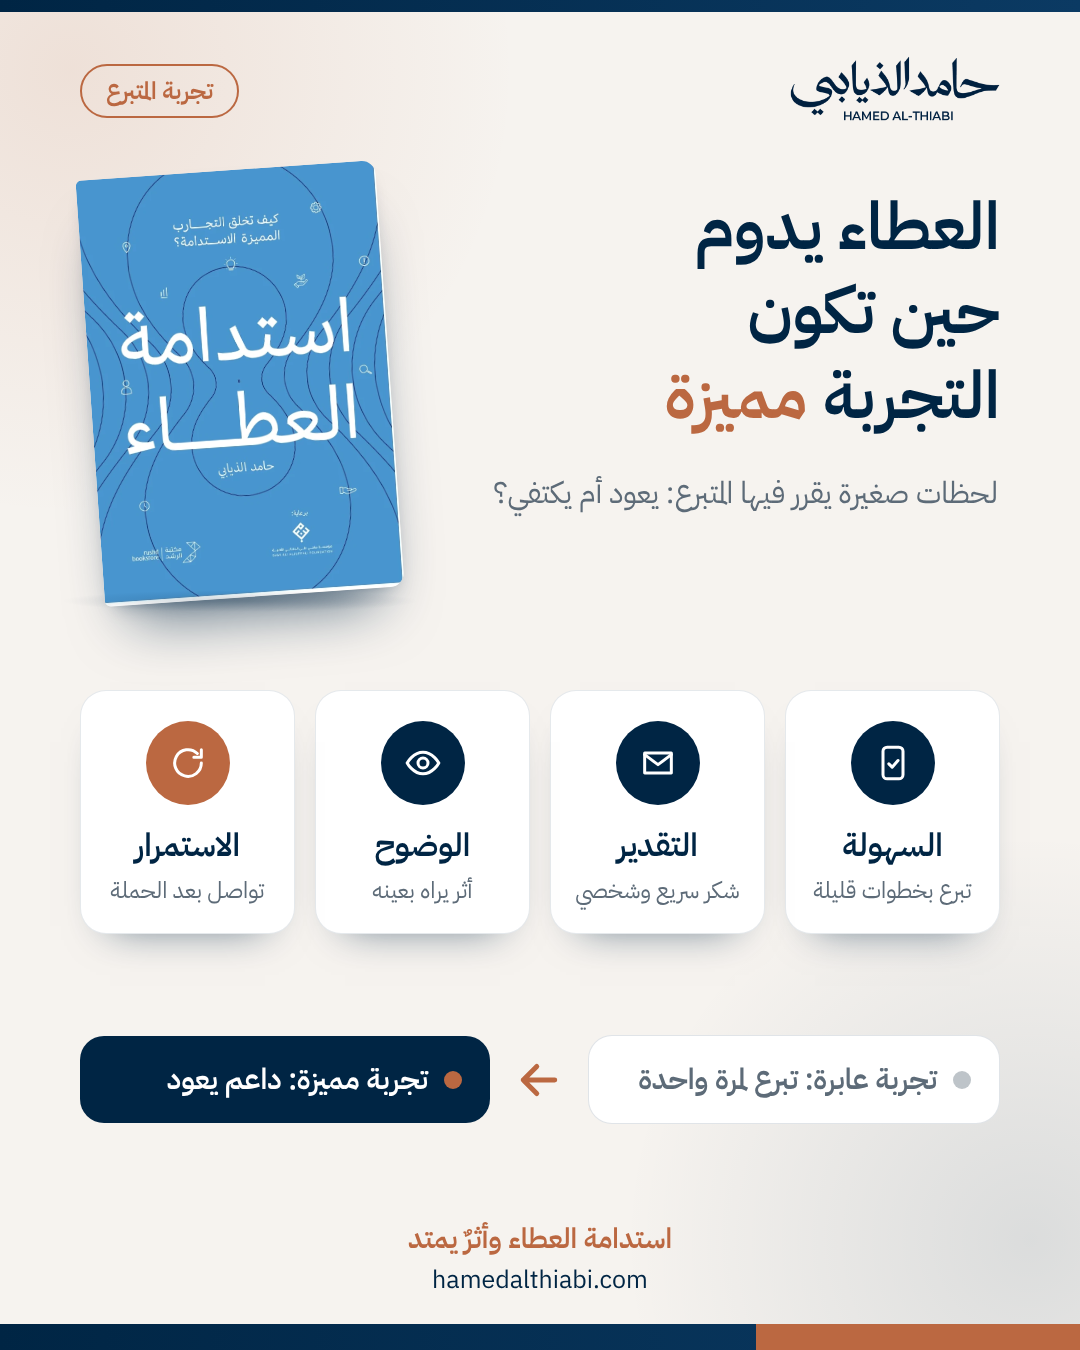
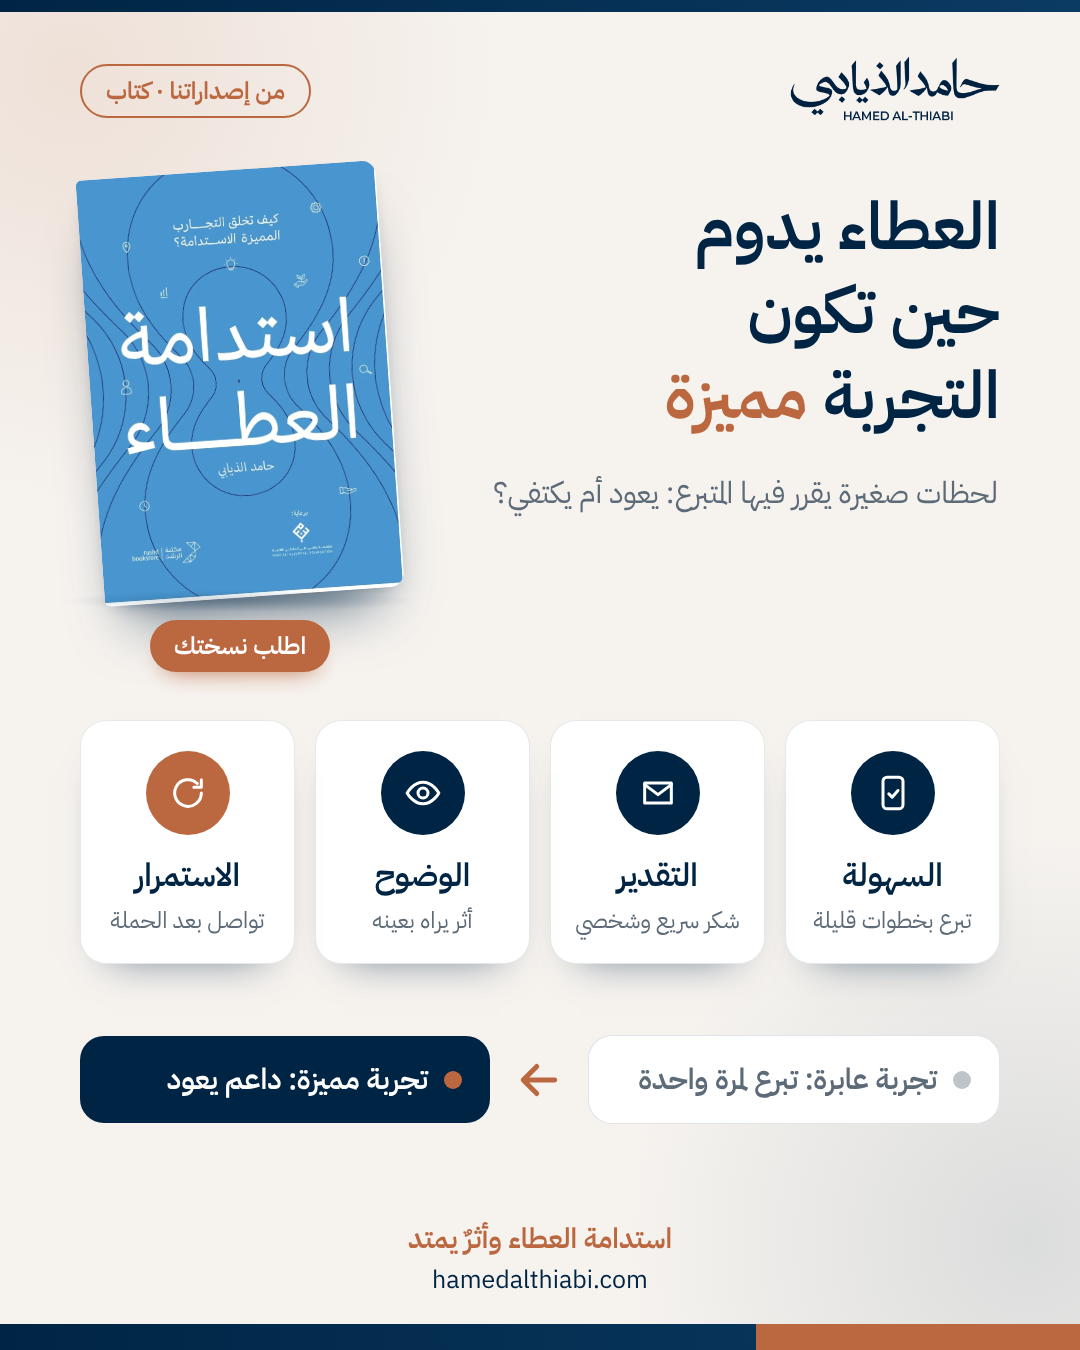
منشورات 2026-11-26: إعادة كتابة بطلب تغريد (تسويق الكتاب، والجلسات الاستشارية في القناة)
Claude-Session: https://claude.ai/code/session_01WaAQ5Sye2uUo2n6FHezNNG

diff --git a/agent/designs/2026-11-26-consultation.html b/agent/designs/2026-11-26-consultation.html
@@ -1,0 +1,61 @@
+<!doctype html><html dir="rtl" lang="ar"><head><meta charset="utf-8"><style>
+@font-face{font-family:Ar;src:url(../brand/plex-600.ttf);font-weight:600}
+@font-face{font-family:Ar;src:url(../brand/plex-400.ttf);font-weight:400}
+@font-face{font-family:La;src:url(../brand/plex-latin-400.ttf)}
+:root{--n:#002544;--n2:#0b3a63;--c:#BB6841;--c2:#d0835d;--ink:#1c2a38;--mut:#5d6b78;--bg:#f6f3ef}
+*{margin:0;box-sizing:border-box}html,body{width:1080px;height:1350px;overflow:hidden}
+body{font-family:Ar,La;background:var(--bg);position:relative;color:var(--ink)}
+.b1{position:absolute;width:900px;height:900px;right:-420px;top:-420px;border-radius:50%;background:radial-gradient(circle,#BB684122,#BB684100 70%)}
+.b2{position:absolute;width:800px;height:800px;left:-360px;bottom:-320px;border-radius:50%;background:radial-gradient(circle,#0025441c,#00254400 70%)}
+.top{position:absolute;top:0;left:0;right:0;height:12px;background:linear-gradient(90deg,var(--n),var(--n2))}
+.bot{position:absolute;bottom:0;left:0;right:0;height:26px;background:linear-gradient(90deg,var(--n),var(--n2))}
+.bot i{position:absolute;right:0;top:0;bottom:0;width:30%;background:var(--c)}
+.logo{position:absolute;top:56px;right:80px;width:210px}
+.tag{position:absolute;top:64px;left:80px;font-size:24px;font-weight:600;color:var(--c);border:2px solid var(--c);border-radius:999px;padding:7px 24px}
+.title{position:absolute;top:180px;right:80px;left:80px;font-weight:600;font-size:64px;color:var(--n);line-height:1.25}
+.title em{font-style:normal;color:var(--c)}
+.sub{position:absolute;top:350px;right:82px;left:80px;font-size:29px;color:var(--mut);line-height:1.5}
+svg.road{position:absolute;left:0;top:430px}
+.st{position:absolute;width:190px;text-align:center}
+.st .dot{width:92px;height:92px;margin:0 auto;border-radius:50%;background:#fff;border:3px solid var(--n);display:flex;align-items:center;justify-content:center;box-shadow:0 16px 30px -18px #002544cc;position:relative}
+.st .dot svg{width:42px;height:42px}
+.st .dot span{position:absolute;top:-10px;right:-8px;width:36px;height:36px;border-radius:50%;background:var(--n);color:#fff;font-size:20px;font-weight:600;display:flex;align-items:center;justify-content:center}
+.st b{display:block;margin-top:12px;font-size:31px;font-weight:600;color:var(--n)}
+.st.after .dot{background:var(--n);border-color:var(--n)}
+.st.after .dot span{background:var(--c)}
+.st.goal .dot{background:var(--c);border-color:var(--c);width:110px;height:110px}
+.st.goal b{color:var(--c);position:absolute;top:30px;right:200px;margin:0;font-size:40px;white-space:nowrap}
+.split{position:absolute;top:1110px;right:80px;left:80px;display:flex;gap:22px}
+.split div{flex:1;border-radius:24px;padding:20px 26px;font-size:27px;font-weight:600;line-height:1.4;display:flex;align-items:center;gap:16px}
+.split .a{background:#fff;border:1.5px solid #0025441f;color:var(--n)}
+.split .b{background:var(--n);color:#fff}
+.split i{flex:none;width:18px;height:18px;border-radius:50%;background:var(--c)}
+.slog{position:absolute;top:1228px;width:100%;text-align:center;font-size:28px;font-weight:600;color:var(--c)}
+.url{position:absolute;bottom:52px;width:100%;text-align:center;font-family:La,Ar;font-size:25px;color:var(--n);direction:ltr}
+
+.steps{position:absolute;top:480px;right:80px;left:80px;display:grid;grid-template-columns:1fr 1fr;gap:24px}
+.s{background:#fff;border:1.5px solid #0025441a;border-radius:26px;padding:30px 30px;display:flex;gap:22px;align-items:center;box-shadow:0 22px 40px -30px #002544aa}
+.s .n{flex:none;width:78px;height:78px;border-radius:50%;background:var(--n);color:#fff;font-size:34px;font-weight:600;display:flex;align-items:center;justify-content:center}
+.s b{display:block;font-size:34px;color:var(--n);font-weight:600}
+.s small{display:block;font-size:23px;color:var(--mut);margin-top:4px;line-height:1.4}
+.start{position:absolute;top:930px;right:80px;left:80px;background:var(--n);color:#fff;border-radius:28px;padding:30px 36px;display:flex;align-items:center;gap:24px}
+.start .ic{flex:none;width:80px;height:80px;border-radius:50%;background:var(--c);display:flex;align-items:center;justify-content:center}
+.start .ic svg{width:40px;height:40px}
+.start b{font-size:36px;font-weight:600}.start small{display:block;font-size:25px;opacity:.85;margin-top:4px}
+</style></head><body>
+<div class="b1"></div><div class="b2"></div><div class="top"></div>
+<img class="logo" src="../../hamed-site/logo_navy.png">
+<div class="tag">الجلسات الاستشارية</div>
+<div class="title">ابدأ <em>بالسؤال</em><br>قبل الحل</div>
+<div class="sub">جلسة نناقش فيها تحديات جهتك في التسويق والاستدامة المالية</div>
+<div class="steps">
+ <div class="s"><div class="n">١</div><div><b>التشخيص</b><small>نقرأ واقع المنظمة</small></div></div>
+ <div class="s"><div class="n">٢</div><div><b>التصميم</b><small>نختار مصادر الدخل الأنسب</small></div></div>
+ <div class="s"><div class="n">٣</div><div><b>التمكين</b><small>نسلّم الفريق الأدوات</small></div></div>
+ <div class="s"><div class="n">٤</div><div><b>القياس</b><small>نتابع النتائج بالمؤشرات</small></div></div>
+</div>
+<div class="start"><div class="ic"><svg viewBox="0 0 24 24" fill="none" stroke="#fff" stroke-width="1.8" stroke-linecap="round" stroke-linejoin="round"><path d="M4 4h16v11H9l-5 4z"/><path d="M8 9h8M8 12h5"/></svg></div><div><b>حضوريًا أو عن بُعد</b><small>احجز جلستك عبر واتساب الأعمال</small></div></div>
+<div class="slog">استدامة العطاء وأثرٌ يمتد</div>
+<div class="url">hamedalthiabi.com</div>
+<div class="bot"><i></i></div>
+</body></html>

diff --git a/agent/designs/2026-11-26-donor-experience.html b/agent/designs/2026-11-26-donor-experience.html
@@ -17,14 +17,15 @@ body{font-family:Ar,La;background:var(--bg);position:relative;color:var(--ink)}
 .sub{position:absolute;top:470px;right:82px;width:540px;font-size:30px;color:var(--mut);line-height:1.55}
 .book{position:absolute;top:170px;left:90px;width:300px;transform:rotate(-4deg);border-radius:6px 14px 14px 6px;box-shadow:0 40px 60px -28px #002544aa,0 10px 20px -12px #00254466}
 .shelf{position:absolute;top:590px;left:60px;width:360px;height:22px;border-radius:50%;background:radial-gradient(ellipse,#00254433,#00254400 70%)}
-.moments{position:absolute;top:690px;right:80px;left:80px;display:grid;grid-template-columns:repeat(4,1fr);gap:20px}
+.buy{position:absolute;top:620px;left:150px;width:180px;text-align:center;font-size:24px;font-weight:600;color:#fff;background:var(--c);border-radius:999px;padding:8px 0;box-shadow:0 12px 24px -14px #BB6841}
+.moments{position:absolute;top:720px;right:80px;left:80px;display:grid;grid-template-columns:repeat(4,1fr);gap:20px}
 .m{background:#fff;border:1.5px solid #0025441a;border-radius:26px;padding:30px 14px 26px;text-align:center;box-shadow:0 22px 40px -30px #002544aa;position:relative}
 .m .ic{width:84px;height:84px;margin:0 auto 16px;border-radius:50%;background:var(--n);display:flex;align-items:center;justify-content:center}
 .m .ic svg{width:40px;height:40px}
 .m b{display:block;font-size:32px;font-weight:600;color:var(--n)}
 .m small{display:block;margin-top:6px;font-size:23px;color:var(--mut);line-height:1.4}
 .m:last-child .ic{background:var(--c)}
-.line{position:absolute;top:732px;right:150px;left:150px;height:3px;background:repeating-linear-gradient(90deg,#BB6841 0 6px,transparent 6px 18px);z-index:-1}
+.line{position:absolute;top:762px;right:150px;left:150px;height:3px;background:repeating-linear-gradient(90deg,#BB6841 0 6px,transparent 6px 18px);z-index:-1}
 .res{position:absolute;top:1035px;right:80px;left:80px;display:flex;align-items:center;gap:22px}
 .res .a,.res .b{flex:1;border-radius:24px;padding:24px 28px;font-size:29px;font-weight:600;line-height:1.35;display:flex;align-items:center;gap:16px}
 .res .a{background:#fff;border:1.5px solid #0025441f;color:var(--mut)}
@@ -36,11 +37,12 @@ body{font-family:Ar,La;background:var(--bg);position:relative;color:var(--ink)}
 </style></head><body>
 <div class="b1"></div><div class="b2"></div><div class="top"></div>
 <img class="logo" src="../../hamed-site/logo_navy.png">
-<div class="tag">تجربة المتبرع</div>
+<div class="tag">من إصداراتنا · كتاب</div>
 <div class="title">العطاء يدوم<br>حين تكون<br>التجربة <em>مميزة</em></div>
 <div class="sub">لحظات صغيرة يقرر فيها المتبرع: يعود أم يكتفي؟</div>
 <img class="book" src="../../hamed-site/live/pubs/book.webp">
 <div class="shelf"></div>
+<div class="buy">اطلب نسختك</div>
 
 <div class="moments">
  <div class="m"><div class="ic"><svg viewBox="0 0 24 24" fill="none" stroke="#fff" stroke-width="1.8" stroke-linecap="round" stroke-linejoin="round"><rect x="6" y="2.5" width="12" height="19" rx="2.5"/><path d="M9.5 12.5l2 2 3.5-4"/></svg></div><b>السهولة</b><small>تبرع بخطوات قليلة</small></div>
